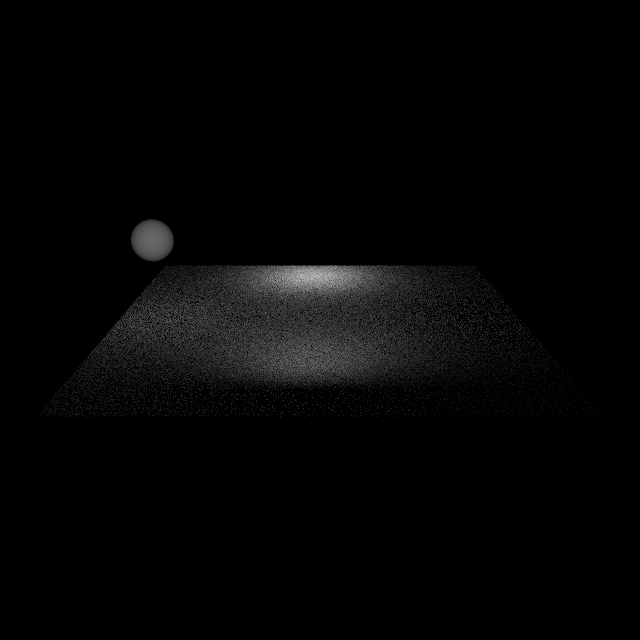
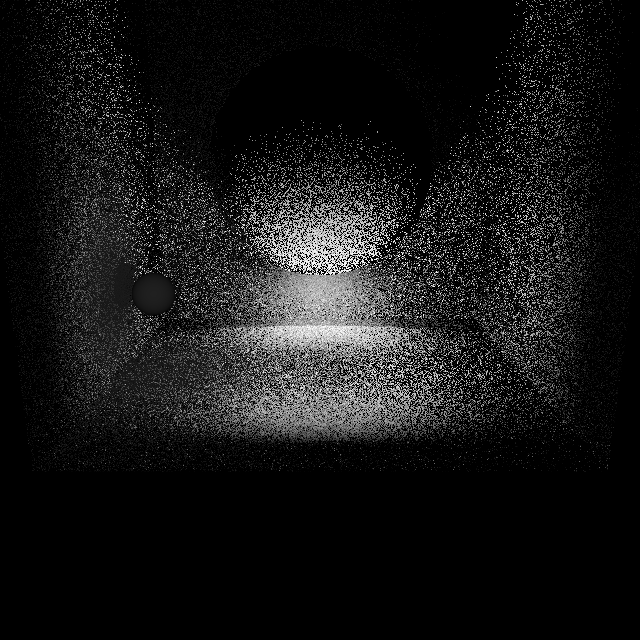
Repair and render SphereInBox with brute-force tracing

diff --git a/src/main.cpp b/src/main.cpp
@@ -26,6 +26,7 @@ struct GridRenderPlane: public RenderPlane {
     virtual void addRay(float x, float y, float value) override {
         assert(x >= 0.0f && x < 1.0f);
         assert(y >= 0.0f && y < 1.0f);
+        assert(value >= 0.0f);
 
         size_t xi = x*width;
         size_t yi = height-y*height-1;
@@ -89,7 +90,7 @@ void render(const Scene& scene, RenderPlane& r_plane, size_t n_samples){
         // ray bouncing loop
         // with hard-limited depth
         float dimming_coef = 1.0f;
-        for(size_t depth=0; depth<1; ++depth){
+        for(size_t depth=0; depth<2; ++depth){
 
             std::optional<surface_intersection> si = scene.geometry->traceRay(origin, direction);
             std::optional<light_intersection> li   = scene.lighting->traceRayToLight(origin, direction);
@@ -98,9 +99,11 @@ void render(const Scene& scene, RenderPlane& r_plane, size_t n_samples){
             if(li.has_value()){
                 // if not obscured by geometry
                 if(!si.has_value() || length(si->position-origin) > length(li->position-origin)){
+                    //if(depth>0)
+                    //    cout << "HIT" << endl;
                     float value = dot(li->normal, -direction)*li->surface_power;
-                    r_plane.addRay(x, y, value*dimming_coef);
-                    continue;
+                    r_plane.addRay(x, y, value >= 0.0f ? value*dimming_coef: 0.0f);
+                    break;
                 }
             }// if li
 
@@ -110,7 +113,7 @@ void render(const Scene& scene, RenderPlane& r_plane, size_t n_samples){
             }
 
             // geometry hit
-
+/*
             // 1 cast ray to light
             shared_ptr<const Ddf> light_ddf = scene.lighting->distributionInPoint(si->position);
             shared_ptr<const Ddf> combined_ddf = ::apply(light_ddf, si->sdf);
@@ -138,11 +141,11 @@ void render(const Scene& scene, RenderPlane& r_plane, size_t n_samples){
 
                 }// if not obscured by geometry
             }// if light_direction
-
+*/
             // 2 continue to geometry
             //DEBUG for geometry debugging
-            //r_plane.addRay(x, y, abs(si->position.z));
-            //continue;
+            //r_plane.addRay(x, y, si->position.y+1.0f);
+            //break;
 
             vec3 new_direction = si->sdf->trySample();
 
@@ -177,7 +180,7 @@ int main(){
     // radiates forward
     lighting->lights.push_back(make_shared<const AreaLight>(vec3{-0.1f, -0.8f, -0.60-0.1f}, vec3{0.0f, 0.0f, 0.2f}, vec3{0.2f, 0.0f, 0.0f}, 1.0f));
 
-    Geometry* geometry = new Floor();
+    Geometry* geometry = new SphereInBox();
     vec3 camera_pos(0.0f, -3.0f, 0.1f);
     vec3 camera_dir = normalize(vec3(0.0f, 1.0f, -1.0f)-camera_pos);
     SimpleCamera* camera = new SimpleCamera( camera_pos, camera_dir );
@@ -186,7 +189,7 @@ int main(){
 
     GridRenderPlane r_plane(640, 640);
 
-    render(scene, r_plane, 20*r_plane.width*r_plane.height);
+    render(scene, r_plane, 100*r_plane.width*r_plane.height);
 
     cout << "Max value = " << r_plane.max_value << endl;
 

diff --git a/src/geometry.cpp b/src/geometry.cpp
@@ -33,7 +33,7 @@ std::optional<surface_intersection> SphereInBox::traceRay(vec3 origin, vec3 dire
     };
 
     float dist = std::numeric_limits<float>::infinity();
-    size_t intersected_plane = -1;
+    int intersected_plane = -1;
     bool intersected_sphere = false;
 
     for(size_t i = 0; i<6; ++i){
@@ -44,7 +44,7 @@ std::optional<surface_intersection> SphereInBox::traceRay(vec3 origin, vec3 dire
         }
     }// for i
 
-    float t = intersection_with_sphere(1.0f, origin, direction);
+    float t = intersection_with_sphere(0.5f, origin, direction);
     if(t<dist){
         dist = t;
         intersected_sphere = true;
@@ -69,10 +69,10 @@ std::optional<surface_intersection> SphereInBox::traceRay(vec3 origin, vec3 dire
         res.sdf = rotate;
     }
     else if(intersected_sphere){
-        res.curvature = 1.0f;
+        res.curvature = 2.0f;
 
         // material
-        res.normal = res.position;
+        res.normal = normalize(res.position);
         vec3 reflection = reflect(direction, res.normal);
         float eye_angle_cos = dot(-direction, res.normal);
 

diff --git a/src/sampling.h b/src/sampling.h
@@ -62,8 +62,11 @@ struct RotateDdf: public TransformDdf {
         :TransformDdf(origin, glm::mat3()){
         glm::vec3 z = glm::vec3(0.0f, 0.0f, 1.0f);
         glm::vec3 axis = cross(z, to);
-        float angle = dot(z,to);
-        transformation = rotate(glm::identity<glm::mat4>(), angle, axis);
+        // HACK corner case to=z
+        if(length(axis)<1e-6)
+            axis = glm::vec3(1.0f, 0.0f, 0.0f);
+        float cosinus = dot(z,to);
+        transformation = rotate(glm::identity<glm::mat4>(), (float)acos(cosinus), axis);
     }
 };
 

diff --git a/src/geometric_utils.cpp b/src/geometric_utils.cpp
@@ -17,6 +17,9 @@ float intersection_with_box_plane(vec3 plane, vec3 origin, vec3 direction){
     vec3 point = origin + direction * t;
     if( abs(point.x) > 1.0f || abs(point.y) > 1.0f || abs(point.z) > 1.0f )
         return std::numeric_limits<float>::infinity();
+    // exclude back face
+    if(dot(direction, plane) < 0.0f)
+        return std::numeric_limits<float>::infinity();
     return t;
 }
 
